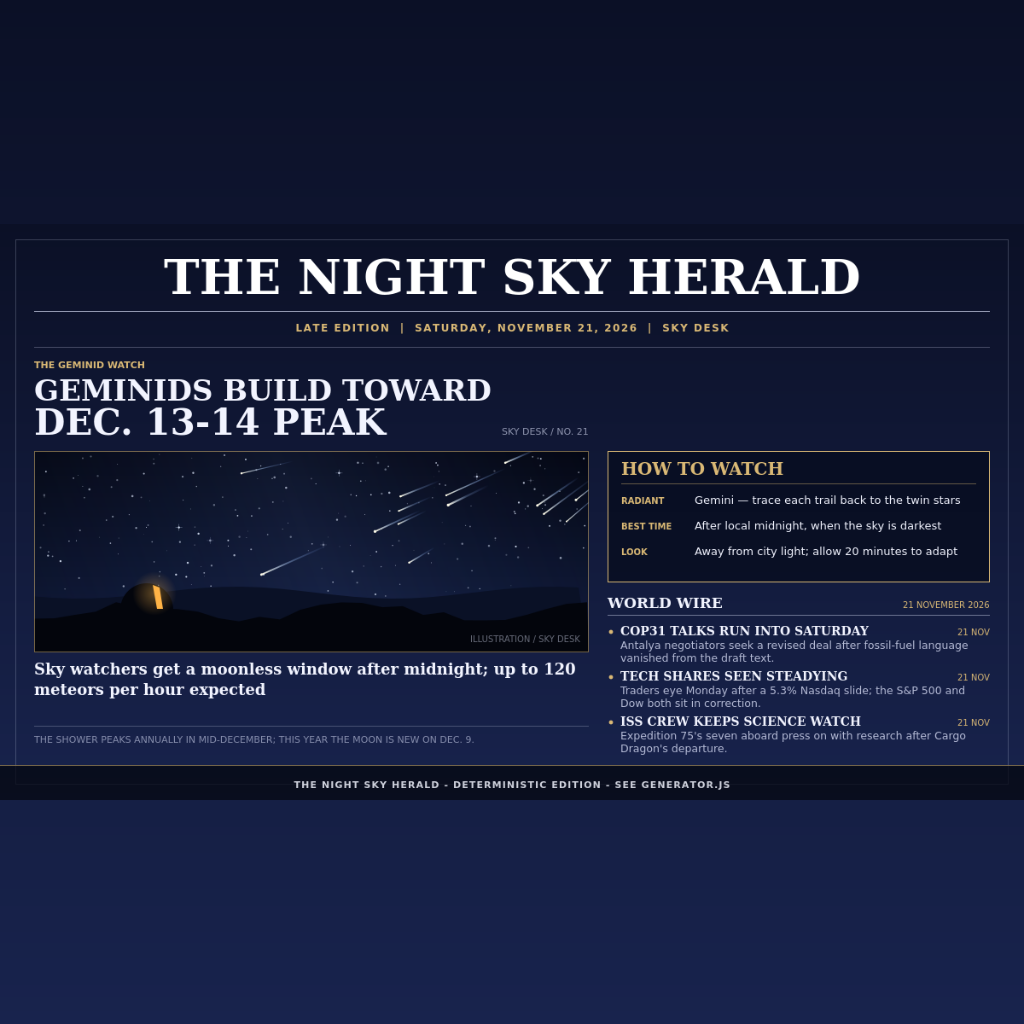
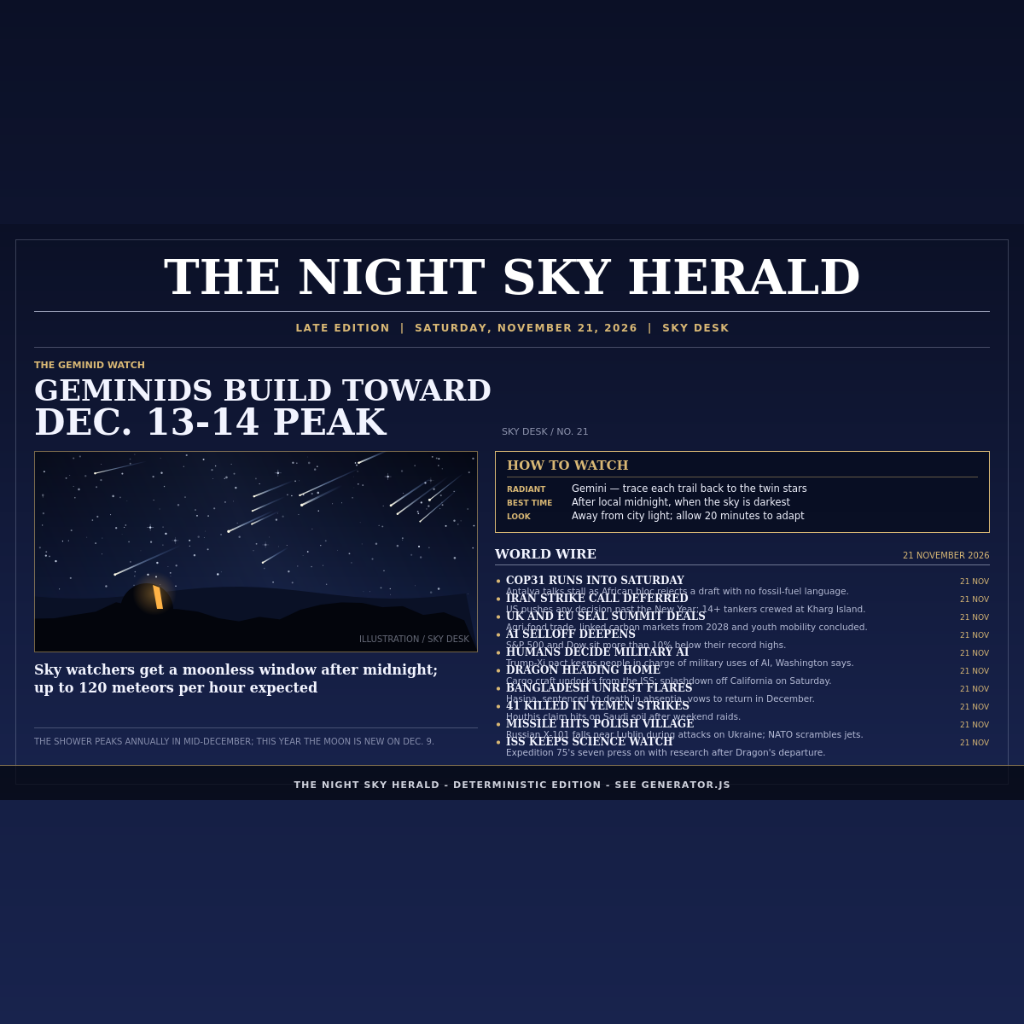
Widen world wire: ten 21 November briefs on the front page

diff --git a/generator.js b/generator.js
@@ -106,7 +106,7 @@ text('SKY DESK / NO. 21', 690, 247, `11px ${SANS}`, 'rgba(226,232,255,0.6)', 'ri
 // --- Hero sky panel ----------------------------------------------------------
 const px = 40;
 const py = 266;
-const pw = 650;
+const pw = 520;
 const ph = 236;
 ctx.save();
 ctx.beginPath();
@@ -231,62 +231,90 @@ text('ILLUSTRATION / SKY DESK', px + pw - 10, py + ph - 12, `10px ${SANS}`, 'rgb
 // --- Deck --------------------------------------------------------------------
 paragraph(
   'Sky watchers get a moonless window after midnight; up to 120 meteors per hour expected',
-  40, 528, 650, `bold 18px ${SERIF}`, PAPER, 24
+  40, 528, 500, `bold 16px ${SERIF}`, PAPER, 21
 );
-rule(40, 588, 690, 'rgba(226,232,255,0.25)');
+rule(40, 590, 560, 'rgba(226,232,255,0.25)');
 text('THE SHOWER PEAKS ANNUALLY IN MID-DECEMBER; THIS YEAR THE MOON IS NEW ON DEC. 9.',
-  40, 608, `11px ${SANS}`, 'rgba(226,232,255,0.55)');
+  40, 610, `10px ${SANS}`, 'rgba(226,232,255,0.55)');
 
-// --- Right column: how to watch ---------------------------------------------
-const cx = 712;
-const cw = 448;
+// --- Right column: how to watch (compact) ------------------------------------
+const cx = 580;
+const cw = 580;
 const boxTop = 266;
-const boxHeight = 154;
+const boxHeight = 96;
 ctx.fillStyle = 'rgba(6,11,28,0.75)';
 ctx.fillRect(cx, boxTop, cw, boxHeight);
 ctx.strokeStyle = GOLD;
 ctx.lineWidth = 1;
 ctx.strokeRect(cx + 0.5, boxTop + 0.5, cw - 1, boxHeight - 1);
-text('HOW TO WATCH', cx + 16, boxTop + 28, `bold 20px ${SERIF}`, GOLD);
-rule(cx + 16, boxTop + 38, cx + cw - 16, 'rgba(217,184,117,0.45)');
+text('HOW TO WATCH', cx + 14, boxTop + 22, `bold 15px ${SERIF}`, GOLD);
+rule(cx + 14, boxTop + 30, cx + cw - 14, 'rgba(217,184,117,0.45)');
 const guide = [
   ['RADIANT', 'Gemini — trace each trail back to the twin stars'],
   ['BEST TIME', 'After local midnight, when the sky is darkest'],
   ['LOOK', 'Away from city light; allow 20 minutes to adapt'],
 ];
 guide.forEach(([label, value], i) => {
-  const y = boxTop + 62 + i * 30;
-  text(label, cx + 16, y, `bold 10px ${SANS}`, GOLD);
-  text(value, cx + 102, y, `13px ${SANS}`, PAPER);
+  const y = boxTop + 48 + i * 16;
+  text(label, cx + 14, y, `bold 9px ${SANS}`, GOLD);
+  text(value, cx + 90, y, `11.5px ${SANS}`, PAPER);
 });
 
 // --- Right column: world wire briefs ----------------------------------------
-text('WORLD WIRE', cx, 450, `bold 17px ${SERIF}`, PAPER);
-text('21 NOVEMBER 2026', cx + cw, 450, `10px ${SANS}`, GOLD, 'right');
-rule(cx, 458, cx + cw, 'rgba(226,232,255,0.45)');
+text('WORLD WIRE', cx, 392, `bold 15px ${SERIF}`, PAPER);
+text('21 NOVEMBER 2026', cx + cw, 392, `10px ${SANS}`, GOLD, 'right');
+rule(cx, 399, cx + cw, 'rgba(226,232,255,0.45)');
 const briefs = [
   {
-    title: 'COP31 TALKS RUN INTO SATURDAY',
-    body: 'Antalya negotiators seek a revised deal after fossil-fuel language vanished from the draft text.',
+    title: 'COP31 RUNS INTO SATURDAY',
+    body: 'Antalya talks stall as African bloc rejects a draft with no fossil-fuel language.',
   },
   {
-    title: 'TECH SHARES SEEN STEADYING',
-    body: 'Traders eye Monday after a 5.3% Nasdaq slide; the S&P 500 and Dow both sit in correction.',
+    title: 'IRAN STRIKE CALL DEFERRED',
+    body: 'US pushes any decision past the New Year; 14+ tankers crewed at Kharg Island.',
   },
   {
-    title: 'ISS CREW KEEPS SCIENCE WATCH',
-    body: "Expedition 75's seven aboard press on with research after Cargo Dragon's departure.",
+    title: 'UK AND EU SEAL SUMMIT DEALS',
+    body: 'Agri-food trade, linked carbon markets from 2028 and youth mobility concluded.',
+  },
+  {
+    title: 'AI SELLOFF DEEPENS',
+    body: 'S&P 500 and Dow sit more than 10% below their record highs.',
+  },
+  {
+    title: 'HUMANS DECIDE MILITARY AI',
+    body: 'Trump-Xi pact keeps people in charge of military uses of AI, Washington says.',
+  },
+  {
+    title: 'DRAGON HEADING HOME',
+    body: 'Cargo craft undocks from the ISS; splashdown off California on Saturday.',
+  },
+  {
+    title: 'BANGLADESH UNREST FLARES',
+    body: 'Hasina, sentenced to death in absentia, vows to return in December.',
+  },
+  {
+    title: '41 KILLED IN YEMEN STRIKES',
+    body: 'Houthis claim hits on Saudi soil after weekend raids.',
+  },
+  {
+    title: 'MISSILE HITS POLISH VILLAGE',
+    body: 'Russian X-101 falls near Lublin during attacks on Ukraine; NATO scrambles jets.',
+  },
+  {
+    title: 'ISS KEEPS SCIENCE WATCH',
+    body: "Expedition 75's seven press on with research after Dragon's departure.",
   },
 ];
 briefs.forEach((brief, i) => {
-  const y = 482 + i * 53;
+  const y = 422 + i * 21;
   ctx.fillStyle = GOLD;
   ctx.beginPath();
-  ctx.arc(cx + 4, y - 4, 2.4, 0, TAU);
+  ctx.arc(cx + 4, y - 3.5, 2.1, 0, TAU);
   ctx.fill();
-  text(brief.title, cx + 15, y, `bold 14px ${SERIF}`, PAPER);
-  text('21 NOV', cx + cw, y, `10px ${SANS}`, GOLD, 'right');
-  paragraph(brief.body, cx + 15, y + 16, cw - 22, `12.5px ${SANS}`, 'rgba(226,232,255,0.78)', 15);
+  text(brief.title, cx + 13, y, `bold 12px ${SERIF}`, PAPER);
+  text('21 NOV', cx + cw, y, `9px ${SANS}`, GOLD, 'right');
+  text(brief.body, cx + 13, y + 12, `10.5px ${SANS}`, 'rgba(226,232,255,0.78)');
 });
 
 // --- Footer ------------------------------------------------------------------
